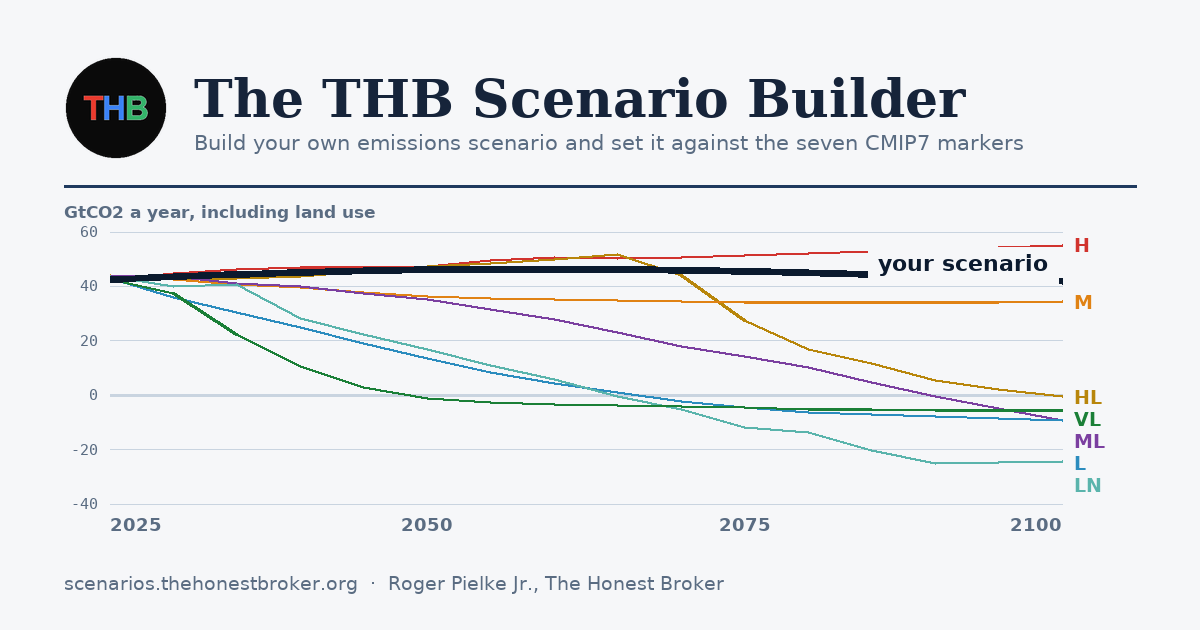
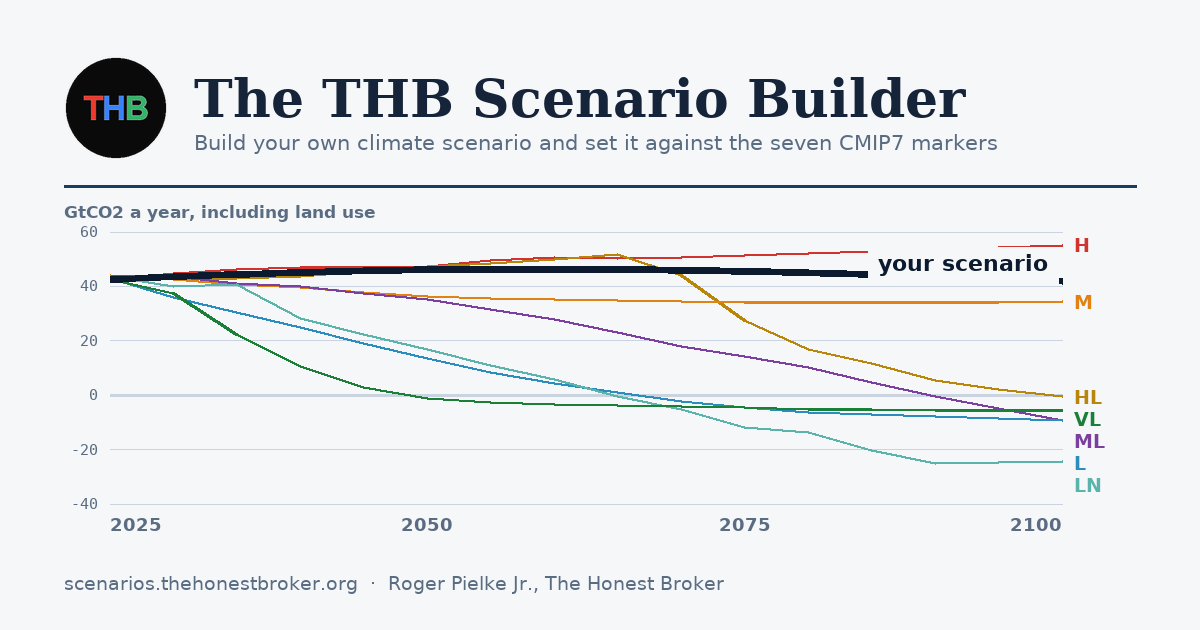
KAYA: count scenarios rather than settings, and rename to climate scenario
The front page said the sliders span N distinct scenarios and printed the
product of the slider stops. Those are different numbers. Energy per dollar and
CO2 per unit of energy enter the identity only through their product, so
swapping one rate for the other leaves the path byte-identical and about half of
all settings repeat another. Methane changes no CO2 point at all, but it does
change the warming, so it belongs to an outcome.

Which factors collapse turns out to depend on the timing slider. Income
compounds over calendar years while the two technology rates compound over the
redistributed clock, so at any timing but 50% income stands apart and only the
technology pair collapses; at 50% the clocks coincide and all three collapse
into one product. Counting the distinct products exactly in each case and adding
them gives 1,200,628,952,606,294,829 scenarios against 2,412,174,456,707,806,791
settings. The page now states the first and explains the difference in a
parenthetical beside it.

Roger asked the question that found this, and it was equally true before today:
at six sliders the ratio was 2.2, so the old "almost 520 trillion" was really
about 235 trillion. The number was simply not large enough to invite the
arithmetic.

The distinct-product counts come from scripts/build_carried_data.py, since the
three-rate case is 81.5 million products and belongs to the build rather than to
page load. Both counts stay derived, never typed, and tests/config.test.ts holds
[…]

Changed region(s): [[0.3083, 0.2111, 0.8633, 0.2413]]

diff --git a/index.html b/index.html
@@ -3,7 +3,7 @@
 <head>
 <meta charset="utf-8">
 <meta name="viewport" content="width=device-width,initial-scale=1">
-<title>Build your own THB emissions scenario</title>
+<title>Build your own THB climate scenario</title>
 <meta name="description" content="Set six assumptions and see how far they sit from what the world has done and from the seven CMIP7 scenarios.">
 <meta name="author" content="Roger Pielke Jr.">
 <link rel="canonical" href="https://scenarios.thehonestbroker.org/">
@@ -13,14 +13,14 @@
 <meta property="og:type" content="website">
 <meta property="og:site_name" content="The Honest Broker">
 <meta property="og:url" content="https://scenarios.thehonestbroker.org/">
-<meta property="og:title" content="Build your own THB emissions scenario">
+<meta property="og:title" content="Build your own THB climate scenario">
 <meta property="og:description" content="Set six assumptions and see how far they sit from what the world has done and from the seven CMIP7 scenarios.">
 <meta property="og:image" content="https://scenarios.thehonestbroker.org/social-card.png">
 <meta property="og:image:width" content="1200">
 <meta property="og:image:height" content="630">
 <meta property="og:image:alt" content="The THB Scenario Builder: an emissions path against the seven CMIP7 marker scenarios to 2100">
 <meta name="twitter:card" content="summary_large_image">
-<meta name="twitter:title" content="Build your own THB emissions scenario">
+<meta name="twitter:title" content="Build your own THB climate scenario">
 <meta name="twitter:description" content="Set six assumptions and see how far they sit from what the world has done and from the seven CMIP7 scenarios.">
 <meta name="twitter:image" content="https://scenarios.thehonestbroker.org/social-card.png">
 <link rel="preconnect" href="https://fonts.googleapis.com">
@@ -35,14 +35,18 @@
       <a class="masthead" href="https://thehonestbroker.org">
         <img src="/thb-logo.png" alt="The Honest Broker" width="216" height="216">
       </a>
-      <h1>Build your own THB emissions scenario</h1>
+      <h1>Build your own THB climate scenario</h1>
     </div>
     <div class="band-right">
       <p class="standfirst">
         This site allows you to build your own climate scenario and compare it to the
-        newly-released CMIP7 scenarios that will underlie climate research and policy for
+        newly-released <a href="https://scenariomip.apps.ece.iiasa.ac.at/" target="_blank"
+        rel="noopener">CMIP7 scenarios</a> that will underlie climate research and policy for
         many years. The eight sliders span <span id="scenario-count">&mdash;</span> distinct
-        scenarios. The tool is based on methods I first described in my book
+        scenarios (they reach <span id="settings-count">&mdash;</span> settings, but
+        swapping the energy-per-dollar and CO<sub>2</sub>-per-energy rates leaves the path
+        unchanged, so about half of those repeat one another). The tool is based on methods
+        I first described in my book
         <a href="https://thehonestbroker.org/books/"><cite>The Climate Fix</cite></a> (2010)
         and have expanded on in recent years at
         <a href="https://rogerpielkejr.substack.com">The Honest Broker</a> at Substack.

diff --git a/src/model/config.ts b/src/model/config.ts
@@ -77,6 +77,36 @@ const SCALES: ReadonlyArray<readonly [bigint, string]> = [
   [1_000_000_000n, 'billion'],
 ];
 
+const RATE_PRODUCTS = configJson.rateProducts;
+
+/**
+ * How many distinct scenarios the sliders actually reach.
+ *
+ * SCENARIO_COUNT above counts settings. It is not the same thing: energy per
+ * dollar and CO2 per unit of energy enter the identity only through their
+ * product, so swapping one for the other leaves the path byte-identical and
+ * about half of all settings repeat another. Methane changes no CO2 point at
+ * all, but it does change the warming, so it counts as part of an outcome.
+ *
+ * Which factors collapse depends on the timing slider. Income compounds over
+ * calendar years while the two technology rates compound over the redistributed
+ * clock, so at any timing but 50% income stands apart and only the technology
+ * pair collapses. At exactly 50% the two clocks coincide and all three collapse
+ * into a single product. The two cases are counted separately and added.
+ *
+ * `rateProducts` comes from scripts/build_carried_data.py, which counts the
+ * distinct products exactly. The three-rate case is 81.5 million of them, which
+ * is a build-time job rather than a page-load one.
+ */
+export const DISTINCT_SCENARIO_COUNT: bigint = (() => {
+  const stops = (id: InputId) => BigInt(sliderPositions(SPEC_BY_ID[id]));
+  const timings = stops('improvementTiming');
+  const shaped = (timings - 1n) * stops('income') * BigInt(RATE_PRODUCTS.pairs);
+  const steady = BigInt(RATE_PRODUCTS.triples);
+  return stops('population') * stops('landUse') * stops('removals')
+    * stops('methane') * (shaped + steady);
+})();
+
 /**
  * The count as the front page says it: "just over 2.4 quintillion".
  *
@@ -85,15 +115,24 @@ const SCALES: ReadonlyArray<readonly [bigint, string]> = [
  * over" rather than going quietly wrong. Rounded to one decimal, so a scale
  * this large still says something the reader can hold.
  */
-export function approximateScenarioCount(): string {
-  const scale = SCALES.find(([size]) => SCENARIO_COUNT >= size) ?? SCALES[SCALES.length - 1];
+export function approximate(count: bigint): string {
+  const scale = SCALES.find(([size]) => count >= size) ?? SCALES[SCALES.length - 1];
   const [size, name] = scale as readonly [bigint, string];
   // Tenths, in integer arithmetic, so the rounding never drifts.
-  const tenths = (SCENARIO_COUNT * 10n) / size;
+  const tenths = (count * 10n) / size;
   const rounded = Number(tenths) / 10;
-  const qualifier = SCENARIO_COUNT * 10n < BigInt(Math.round(rounded * 10)) * size
+  const qualifier = count * 10n < BigInt(Math.round(rounded * 10)) * size
     ? 'almost' : 'just over';
   return `${qualifier} ${rounded.toFixed(1)} ${name}`;
+}
+
+export function approximateScenarioCount(): string {
+  return approximate(DISTINCT_SCENARIO_COUNT);
+}
+
+/** The settings figure, for the sentence that explains the difference. */
+export function approximateSettingsCount(): string {
+  return approximate(SCENARIO_COUNT);
 }
 
 /** Every input at its default. */

diff --git a/learn/carbon-intensity/index.html b/learn/carbon-intensity/index.html
@@ -3,7 +3,7 @@
 <head>
 <meta charset="utf-8">
 <meta name="viewport" content="width=device-width,initial-scale=1">
-<title>CO2 per unit of energy — Build your own THB emissions scenario</title>
+<title>CO2 per unit of energy — Build your own THB climate scenario</title>
 <meta name="description" content="What the fuel mix does to the carbon in the world’s energy, and how to build a 2100 mix and read off the rate it implies.">
 <meta name="author" content="Roger Pielke Jr.">
 <link rel="canonical" href="https://scenarios.thehonestbroker.org/learn/carbon-intensity/">
@@ -13,14 +13,14 @@
 <meta property="og:type" content="website">
 <meta property="og:site_name" content="The Honest Broker">
 <meta property="og:url" content="https://scenarios.thehonestbroker.org/learn/carbon-intensity/">
-<meta property="og:title" content="CO2 per unit of energy — Build your own THB emissions scenario">
+<meta property="og:title" content="CO2 per unit of energy — Build your own THB climate scenario">
 <meta property="og:description" content="What the fuel mix does to the carbon in the world’s energy, and how to build a 2100 mix and read off the rate it implies.">
 <meta property="og:image" content="https://scenarios.thehonestbroker.org/social-card.png">
 <meta property="og:image:width" content="1200">
 <meta property="og:image:height" content="630">
 <meta property="og:image:alt" content="The THB Scenario Builder: an emissions path against the seven CMIP7 marker scenarios to 2100">
 <meta name="twitter:card" content="summary_large_image">
-<meta name="twitter:title" content="CO2 per unit of energy — Build your own THB emissions scenario">
+<meta name="twitter:title" content="CO2 per unit of energy — Build your own THB climate scenario">
 <meta name="twitter:description" content="What the fuel mix does to the carbon in the world’s energy, and how to build a 2100 mix and read off the rate it implies.">
 <meta name="twitter:image" content="https://scenarios.thehonestbroker.org/social-card.png">
 <link rel="preconnect" href="https://fonts.googleapis.com">

diff --git a/learn/energy-intensity/index.html b/learn/energy-intensity/index.html
@@ -3,7 +3,7 @@
 <head>
 <meta charset="utf-8">
 <meta name="viewport" content="width=device-width,initial-scale=1">
-<title>Energy per dollar — Build your own THB emissions scenario</title>
+<title>Energy per dollar — Build your own THB climate scenario</title>
 <meta name="description" content="What energy intensity measures, what the world has done with it since 1965, and how to build a rate from the record.">
 <meta name="author" content="Roger Pielke Jr.">
 <link rel="canonical" href="https://scenarios.thehonestbroker.org/learn/energy-intensity/">
@@ -13,14 +13,14 @@
 <meta property="og:type" content="website">
 <meta property="og:site_name" content="The Honest Broker">
 <meta property="og:url" content="https://scenarios.thehonestbroker.org/learn/energy-intensity/">
-<meta property="og:title" content="Energy per dollar — Build your own THB emissions scenario">
+<meta property="og:title" content="Energy per dollar — Build your own THB climate scenario">
 <meta property="og:description" content="What energy intensity measures, what the world has done with it since 1965, and how to build a rate from the record.">
 <meta property="og:image" content="https://scenarios.thehonestbroker.org/social-card.png">
 <meta property="og:image:width" content="1200">
 <meta property="og:image:height" content="630">
 <meta property="og:image:alt" content="The THB Scenario Builder: an emissions path against the seven CMIP7 marker scenarios to 2100">
 <meta name="twitter:card" content="summary_large_image">
-<meta name="twitter:title" content="Energy per dollar — Build your own THB emissions scenario">
+<meta name="twitter:title" content="Energy per dollar — Build your own THB climate scenario">
 <meta name="twitter:description" content="What energy intensity measures, what the world has done with it since 1965, and how to build a rate from the record.">
 <meta name="twitter:image" content="https://scenarios.thehonestbroker.org/social-card.png">
 <link rel="preconnect" href="https://fonts.googleapis.com">

diff --git a/library.html b/library.html
@@ -3,7 +3,7 @@
 <head>
 <meta charset="utf-8">
 <meta name="viewport" content="width=device-width,initial-scale=1">
-<title>Library — Build your own THB emissions scenario</title>
+<title>Library — Build your own THB climate scenario</title>
 <meta name="description" content="The Honest Broker on emissions scenarios: how they get built, how the extreme ones drifted from the world, and what CMIP7 put in their place.">
 <meta name="author" content="Roger Pielke Jr.">
 <link rel="canonical" href="https://scenarios.thehonestbroker.org/library.html">
@@ -13,14 +13,14 @@
 <meta property="og:type" content="website">
 <meta property="og:site_name" content="The Honest Broker">
 <meta property="og:url" content="https://scenarios.thehonestbroker.org/library.html">
-<meta property="og:title" content="Library — Build your own THB emissions scenario">
+<meta property="og:title" content="Library — Build your own THB climate scenario">
 <meta property="og:description" content="The Honest Broker on emissions scenarios: how they get built, how the extreme ones drifted from the world, and what CMIP7 put in their place.">
 <meta property="og:image" content="https://scenarios.thehonestbroker.org/social-card.png">
 <meta property="og:image:width" content="1200">
 <meta property="og:image:height" content="630">
 <meta property="og:image:alt" content="The THB Scenario Builder: an emissions path against the seven CMIP7 marker scenarios to 2100">
 <meta name="twitter:card" content="summary_large_image">
-<meta name="twitter:title" content="Library — Build your own THB emissions scenario">
+<meta name="twitter:title" content="Library — Build your own THB climate scenario">
 <meta name="twitter:description" content="The Honest Broker on emissions scenarios: how they get built, how the extreme ones drifted from the world, and what CMIP7 put in their place.">
 <meta name="twitter:image" content="https://scenarios.thehonestbroker.org/social-card.png">
 <link rel="preconnect" href="https://fonts.googleapis.com">

diff --git a/learn/income/index.html b/learn/income/index.html
@@ -3,7 +3,7 @@
 <head>
 <meta charset="utf-8">
 <meta name="viewport" content="width=device-width,initial-scale=1">
-<title>Income per person — Build your own THB emissions scenario</title>
+<title>Income per person — Build your own THB climate scenario</title>
 <meta name="description" content="What 75 years of compounding income growth does, what convergence has and has not achieved, and how to build a rate.">
 <meta name="author" content="Roger Pielke Jr.">
 <link rel="canonical" href="https://scenarios.thehonestbroker.org/learn/income/">
@@ -13,14 +13,14 @@
 <meta property="og:type" content="website">
 <meta property="og:site_name" content="The Honest Broker">
 <meta property="og:url" content="https://scenarios.thehonestbroker.org/learn/income/">
-<meta property="og:title" content="Income per person — Build your own THB emissions scenario">
+<meta property="og:title" content="Income per person — Build your own THB climate scenario">
 <meta property="og:description" content="What 75 years of compounding income growth does, what convergence has and has not achieved, and how to build a rate.">
 <meta property="og:image" content="https://scenarios.thehonestbroker.org/social-card.png">
 <meta property="og:image:width" content="1200">
 <meta property="og:image:height" content="630">
 <meta property="og:image:alt" content="The THB Scenario Builder: an emissions path against the seven CMIP7 marker scenarios to 2100">
 <meta name="twitter:card" content="summary_large_image">
-<meta name="twitter:title" content="Income per person — Build your own THB emissions scenario">
+<meta name="twitter:title" content="Income per person — Build your own THB climate scenario">
 <meta name="twitter:description" content="What 75 years of compounding income growth does, what convergence has and has not achieved, and how to build a rate.">
 <meta name="twitter:image" content="https://scenarios.thehonestbroker.org/social-card.png">
 <link rel="preconnect" href="https://fonts.googleapis.com">

diff --git a/learn/methane/index.html b/learn/methane/index.html
@@ -3,7 +3,7 @@
 <head>
 <meta charset="utf-8">
 <meta name="viewport" content="width=device-width,initial-scale=1">
-<title>Methane — Build your own THB emissions scenario</title>
+<title>Methane — Build your own THB climate scenario</title>
 <meta name="description" content="Why a short-lived gas makes 2100 a question about that year alone, where methane comes from, and how to build a 2100 figure.">
 <meta name="author" content="Roger Pielke Jr.">
 <link rel="canonical" href="https://scenarios.thehonestbroker.org/learn/methane/">
@@ -13,14 +13,14 @@
 <meta property="og:type" content="website">
 <meta property="og:site_name" content="The Honest Broker">
 <meta property="og:url" content="https://scenarios.thehonestbroker.org/learn/methane/">
-<meta property="og:title" content="Methane — Build your own THB emissions scenario">
+<meta property="og:title" content="Methane — Build your own THB climate scenario">
 <meta property="og:description" content="Why a short-lived gas makes 2100 a question about that year alone, where methane comes from, and how to build a 2100 figure.">
 <meta property="og:image" content="https://scenarios.thehonestbroker.org/social-card.png">
 <meta property="og:image:width" content="1200">
 <meta property="og:image:height" content="630">
 <meta property="og:image:alt" content="The THB Scenario Builder: an emissions path against the seven CMIP7 marker scenarios to 2100">
 <meta name="twitter:card" content="summary_large_image">
-<meta name="twitter:title" content="Methane — Build your own THB emissions scenario">
+<meta name="twitter:title" content="Methane — Build your own THB climate scenario">
 <meta name="twitter:description" content="Why a short-lived gas makes 2100 a question about that year alone, where methane comes from, and how to build a 2100 figure.">
 <meta name="twitter:image" content="https://scenarios.thehonestbroker.org/social-card.png">
 <link rel="preconnect" href="https://fonts.googleapis.com">

diff --git a/learn/population/index.html b/learn/population/index.html
@@ -3,7 +3,7 @@
 <head>
 <meta charset="utf-8">
 <meta name="viewport" content="width=device-width,initial-scale=1">
-<title>Population — Build your own THB emissions scenario</title>
+<title>Population — Build your own THB climate scenario</title>
 <meta name="description" content="What world population in 2100 measures, what the UN and the SSPs project, and how to build a value region by region.">
 <meta name="author" content="Roger Pielke Jr.">
 <link rel="canonical" href="https://scenarios.thehonestbroker.org/learn/population/">
@@ -13,14 +13,14 @@
 <meta property="og:type" content="website">
 <meta property="og:site_name" content="The Honest Broker">
 <meta property="og:url" content="https://scenarios.thehonestbroker.org/learn/population/">
-<meta property="og:title" content="Population — Build your own THB emissions scenario">
+<meta property="og:title" content="Population — Build your own THB climate scenario">
 <meta property="og:description" content="What world population in 2100 measures, what the UN and the SSPs project, and how to build a value region by region.">
 <meta property="og:image" content="https://scenarios.thehonestbroker.org/social-card.png">
 <meta property="og:image:width" content="1200">
 <meta property="og:image:height" content="630">
 <meta property="og:image:alt" content="The THB Scenario Builder: an emissions path against the seven CMIP7 marker scenarios to 2100">
 <meta name="twitter:card" content="summary_large_image">
-<meta name="twitter:title" content="Population — Build your own THB emissions scenario">
+<meta name="twitter:title" content="Population — Build your own THB climate scenario">
 <meta name="twitter:description" content="What world population in 2100 measures, what the UN and the SSPs project, and how to build a value region by region.">
 <meta name="twitter:image" content="https://scenarios.thehonestbroker.org/social-card.png">
 <link rel="preconnect" href="https://fonts.googleapis.com">

diff --git a/learn/land-use/index.html b/learn/land-use/index.html
@@ -3,7 +3,7 @@
 <head>
 <meta charset="utf-8">
 <meta name="viewport" content="width=device-width,initial-scale=1">
-<title>Land use CO2 — Build your own THB emissions scenario</title>
+<title>Land use CO2 — Build your own THB climate scenario</title>
 <meta name="description" content="Deforestation against regrowth, how wide the uncertainty runs, and what it takes for the term to turn negative.">
 <meta name="author" content="Roger Pielke Jr.">
 <link rel="canonical" href="https://scenarios.thehonestbroker.org/learn/land-use/">
@@ -13,14 +13,14 @@
 <meta property="og:type" content="website">
 <meta property="og:site_name" content="The Honest Broker">
 <meta property="og:url" content="https://scenarios.thehonestbroker.org/learn/land-use/">
-<meta property="og:title" content="Land use CO2 — Build your own THB emissions scenario">
+<meta property="og:title" content="Land use CO2 — Build your own THB climate scenario">
 <meta property="og:description" content="Deforestation against regrowth, how wide the uncertainty runs, and what it takes for the term to turn negative.">
 <meta property="og:image" content="https://scenarios.thehonestbroker.org/social-card.png">
 <meta property="og:image:width" content="1200">
 <meta property="og:image:height" content="630">
 <meta property="og:image:alt" content="The THB Scenario Builder: an emissions path against the seven CMIP7 marker scenarios to 2100">
 <meta name="twitter:card" content="summary_large_image">
-<meta name="twitter:title" content="Land use CO2 — Build your own THB emissions scenario">
+<meta name="twitter:title" content="Land use CO2 — Build your own THB climate scenario">
 <meta name="twitter:description" content="Deforestation against regrowth, how wide the uncertainty runs, and what it takes for the term to turn negative.">
 <meta name="twitter:image" content="https://scenarios.thehonestbroker.org/social-card.png">
 <link rel="preconnect" href="https://fonts.googleapis.com">

diff --git a/bibliography.html b/bibliography.html
@@ -3,7 +3,7 @@
 <head>
 <meta charset="utf-8">
 <meta name="viewport" content="width=device-width,initial-scale=1">
-<title>Bibliography — Build your own THB emissions scenario</title>
+<title>Bibliography — Build your own THB climate scenario</title>
 <meta name="description" content="The book and the peer-reviewed work on emissions scenarios behind this tool, and the data sources it uses.">
 <meta name="author" content="Roger Pielke Jr.">
 <link rel="canonical" href="https://scenarios.thehonestbroker.org/bibliography.html">
@@ -13,14 +13,14 @@
 <meta property="og:type" content="website">
 <meta property="og:site_name" content="The Honest Broker">
 <meta property="og:url" content="https://scenarios.thehonestbroker.org/bibliography.html">
-<meta property="og:title" content="Bibliography — Build your own THB emissions scenario">
+<meta property="og:title" content="Bibliography — Build your own THB climate scenario">
 <meta property="og:description" content="The book and the peer-reviewed work on emissions scenarios behind this tool, and the data sources it uses.">
 <meta property="og:image" content="https://scenarios.thehonestbroker.org/social-card.png">
 <meta property="og:image:width" content="1200">
 <meta property="og:image:height" content="630">
 <meta property="og:image:alt" content="The THB Scenario Builder: an emissions path against the seven CMIP7 marker scenarios to 2100">
 <meta name="twitter:card" content="summary_large_image">
-<meta name="twitter:title" content="Bibliography — Build your own THB emissions scenario">
+<meta name="twitter:title" content="Bibliography — Build your own THB climate scenario">
 <meta name="twitter:description" content="The book and the peer-reviewed work on emissions scenarios behind this tool, and the data sources it uses.">
 <meta name="twitter:image" content="https://scenarios.thehonestbroker.org/social-card.png">
 <link rel="preconnect" href="https://fonts.googleapis.com">

diff --git a/learn/index.html b/learn/index.html
@@ -3,7 +3,7 @@
 <head>
 <meta charset="utf-8">
 <meta name="viewport" content="width=device-width,initial-scale=1">
-<title>Learn more — Build your own THB emissions scenario</title>
+<title>Learn more — Build your own THB climate scenario</title>
 <meta name="description" content="Six pages, one for each assumption behind an emissions scenario.">
 <meta name="author" content="Roger Pielke Jr.">
 <link rel="canonical" href="https://scenarios.thehonestbroker.org/learn/">
@@ -13,14 +13,14 @@
 <meta property="og:type" content="website">
 <meta property="og:site_name" content="The Honest Broker">
 <meta property="og:url" content="https://scenarios.thehonestbroker.org/learn/">
-<meta property="og:title" content="Learn more — Build your own THB emissions scenario">
+<meta property="og:title" content="Learn more — Build your own THB climate scenario">
 <meta property="og:description" content="Six pages, one for each assumption behind an emissions scenario.">
 <meta property="og:image" content="https://scenarios.thehonestbroker.org/social-card.png">
 <meta property="og:image:width" content="1200">
 <meta property="og:image:height" content="630">
 <meta property="og:image:alt" content="The THB Scenario Builder: an emissions path against the seven CMIP7 marker scenarios to 2100">
 <meta name="twitter:card" content="summary_large_image">
-<meta name="twitter:title" content="Learn more — Build your own THB emissions scenario">
+<meta name="twitter:title" content="Learn more — Build your own THB climate scenario">
 <meta name="twitter:description" content="Six pages, one for each assumption behind an emissions scenario.">
 <meta name="twitter:image" content="https://scenarios.thehonestbroker.org/social-card.png">
 <link rel="preconnect" href="https://fonts.googleapis.com">

diff --git a/tests/config.test.ts b/tests/config.test.ts
@@ -1,7 +1,7 @@
 import { describe, expect, it } from 'vitest';
 import { readFileSync } from 'node:fs';
 import { resolve } from 'node:path';
-import { INPUT_SPECS, SCENARIO_COUNT, sliderPositions } from '../src/model/config.js';
+import { DISTINCT_SCENARIO_COUNT, INPUT_SPECS, SCENARIO_COUNT, sliderPositions } from '../src/model/config.js';
 import { computePath } from '../src/model/kaya.js';
 import { warming } from '../src/model/emulator.js';
 import type { ScenarioInputs } from '../src/model/types.js';
@@ -43,9 +43,20 @@ describe('how many scenarios the sliders reach', () => {
   // METHODS.md quotes the figure. A slider range moving would change the
   // page and leave the document behind, which is how its preset table went
   // stale once already.
-  it('agrees with the figure METHODS.md states', () => {
+  it('agrees with the figures METHODS.md states', () => {
     const methods = readFileSync(resolve(process.cwd(), 'METHODS.md'), 'utf8');
     expect(methods).toContain(SCENARIO_COUNT.toLocaleString('en-US'));
+    expect(methods).toContain(DISTINCT_SCENARIO_COUNT.toLocaleString('en-US'));
+  });
+
+  // Settings are not scenarios: swapping the two technology rates leaves the
+  // path byte-identical, so roughly half of all settings repeat another. The
+  // front page says "distinct scenarios", so it has to print the smaller one.
+  it('separates settings from the scenarios they reach', () => {
+    expect(DISTINCT_SCENARIO_COUNT).toBeLessThan(SCENARIO_COUNT);
+    const ratio = Number(SCENARIO_COUNT) / Number(DISTINCT_SCENARIO_COUNT);
+    expect(ratio).toBeGreaterThan(1.9);
+    expect(ratio).toBeLessThan(2.1);
   });
 
   // The same paragraph quotes the span of the answers. Every one of those is
